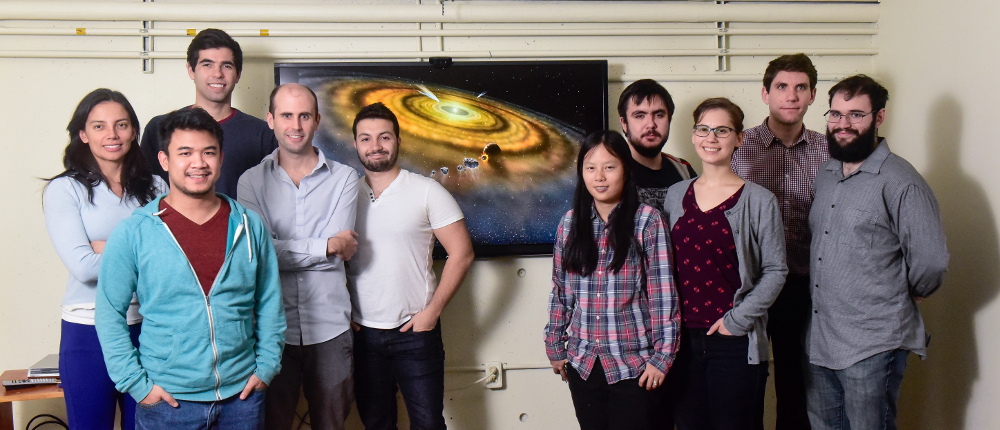
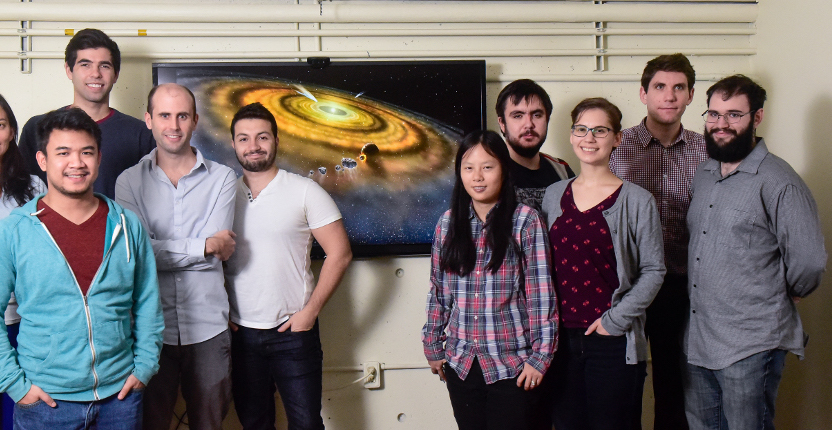
cropped ad requested.

diff --git a/planetdays.html b/planetdays.html
@@ -100,8 +100,17 @@ The CPS also offers a free shuttle service to and from UTSC. Shuttles leave UofT
                         <h2> Upcoming Planet Day </h2>
                         <h3>November 28th 2018</h3>
                         <ul>
-                            <li> Xu (Chelsea) Huang, MIT </li>
-                            <li> Francois Soubiran, Geology laboratory of Lyon (LGLTPE) </li>
+                            <li> <b>Xu (Chelsea) Huang, MIT</b> </li>
+                            <p>
+                            <b><i>A Quick look into the first discoveries of TESS</i></b>
+                            </p>
+                            <p>
+
+                            The Transiting Exoplanet Survey Satellite promises to discover small planets around the nearest and brightest stars. After two months of observations, 
+                            the TESS mission has recovered a few hundred planetary candidates. In this talk, we present an early look into the TESS data and one of the first discoveries from the TESS mission - the detection of a transiting planet around PI Mensae. The solar-type host star is unusually bright (V=5.7) and was already known to host a Jovian planet in a highly eccentric, 5.7-year orbit. The newly discovered planet has a radius about twice that of Earth and an orbital period of 6.27 days. Using archived radial velocity data, we determined the planet's mass to be about 4.8 ME. Using PI Mensae c as an example, I will review the process of planetary candidate identification in TESS Full Frame Images using the MIT Quick Look Pipeline.
+                            </p>
+                            <li> <b>Francois Soubiran, Geology laboratory of Lyon (LGLTPE) </b></li>
+                            <p>Talk abstract coming soon</p>
                         </ul>	
                         <br />
                         <h2> Previous Planet Days </h2>

diff --git a/people.html b/people.html
@@ -59,7 +59,7 @@
                     <article>
                         <p class="center">
                             <img src="img/CPSpeople.jpg" alt="">
-                            CPS meeting (left to right): Diana Valencia, Joshua Guerrero, Ari Silburt, Daniel Tamayo, Mohamad Ali-Dib,
+                            CPS meeting (left to right):  Joshua Guerrero, Ari Silburt, Daniel Tamayo, Mohamad Ali-Dib,
                             Chelsea Huang (former), Aleksandar Rachkov, Alysa Obertas, Hanno Rein, Rejean Le Blanc
                         </p>
                         <br>
